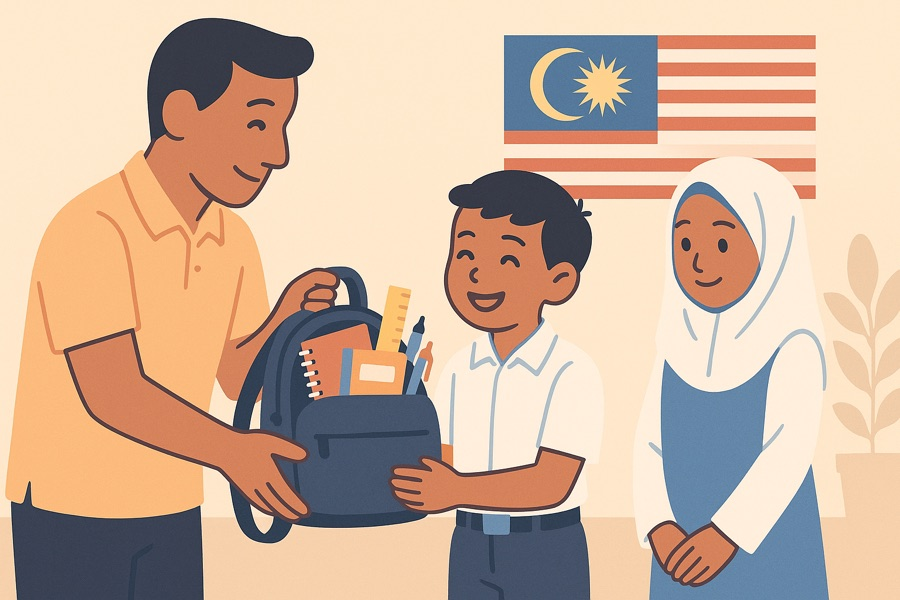
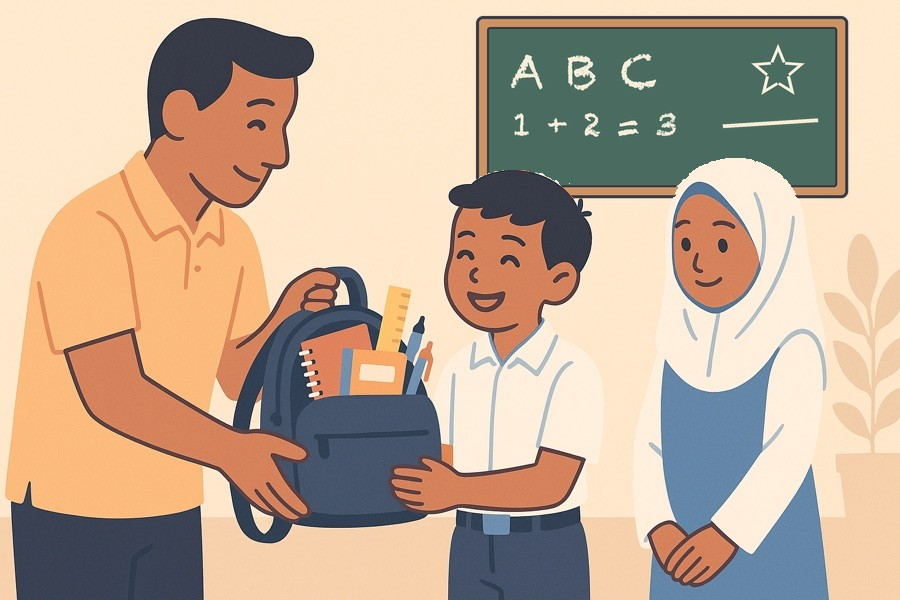
fix(ui): translate masthead to Malay and tidy Bantuan page
- Masthead: all MYDS masthead copy now in Bahasa Melayu (terms checked
  against PRPM DBP: laman web, pautan, berjaga-jaga, mangga)
- Bantuan list: drop "Malaysia" from the subtitle and remove the
  max-width so it sits on one line on desktop
- Bantuan Awal Persekolahan card art: replace the flag with a chalkboard

Changed region(s): [[0.5289, 0.0, 0.9644, 0.33]]

diff --git a/src/components/layout/MastheadMyds.tsx b/src/components/layout/MastheadMyds.tsx
@@ -16,24 +16,24 @@ export default function MastheadMyds() {
   return (
     <Masthead>
       <MastheadHeader>
-        <MastheadTitle>Official Malaysian Government Website</MastheadTitle>
-        <MastheadTrigger>Here's how you know</MastheadTrigger>
+        <MastheadTitle>Laman Web Rasmi Kerajaan Malaysia</MastheadTitle>
+        <MastheadTrigger>Cara untuk mengenal pasti</MastheadTrigger>
       </MastheadHeader>
       <MastheadContent>
         <MastheadSection
           icon={<PutrajayaIcon />}
-          title="Official government websites end with .gov.my"
+          title="Laman web rasmi kerajaan berakhir dengan .gov.my"
         >
-          If the link does not end with <b>.gov.my</b>, exit the website
-          immediately even if it looks similar.
+          Jika pautan tidak berakhir dengan <b>.gov.my</b>, keluar dari laman
+          web tersebut dengan segera walaupun ia kelihatan serupa.
         </MastheadSection>
         <MastheadSection
           icon={<Lock2Icon className="inline-block size-3.5" />}
-          title="Secure websites use HTTPS"
+          title="Laman web yang selamat menggunakan HTTPS"
         >
-          Look for a lock (<LockFillIcon className="inline-block size-3.5" />)
-          or https:// as an added precaution. If not present, do not share any
-          sensitive information.
+          Cari ikon mangga (<LockFillIcon className="inline-block size-3.5" />)
+          atau https:// sebagai langkah berjaga-jaga tambahan. Jika tiada,
+          jangan kongsi sebarang maklumat sensitif.
         </MastheadSection>
       </MastheadContent>
     </Masthead>

diff --git a/src/pages/BantuanPersekolahan.tsx b/src/pages/BantuanPersekolahan.tsx
@@ -128,9 +128,9 @@ export default function BantuanPersekolahan() {
             <h2 className="font-heading text-2xl font-bold text-txt-black-900 md:text-[28px]">
               {items.length} Program Bantuan Tersedia
             </h2>
-            <p className="max-w-[760px] font-body text-sm text-txt-black-500">
+            <p className="font-body text-sm text-txt-black-500">
               Senarai bantuan persekolahan dan pembelajaran daripada Kementerian
-              Pendidikan Malaysia. Klik mana-mana kad untuk ke maklumat rasmi.
+              Pendidikan. Klik mana-mana kad untuk ke maklumat rasmi.
             </p>
           </div>
 
